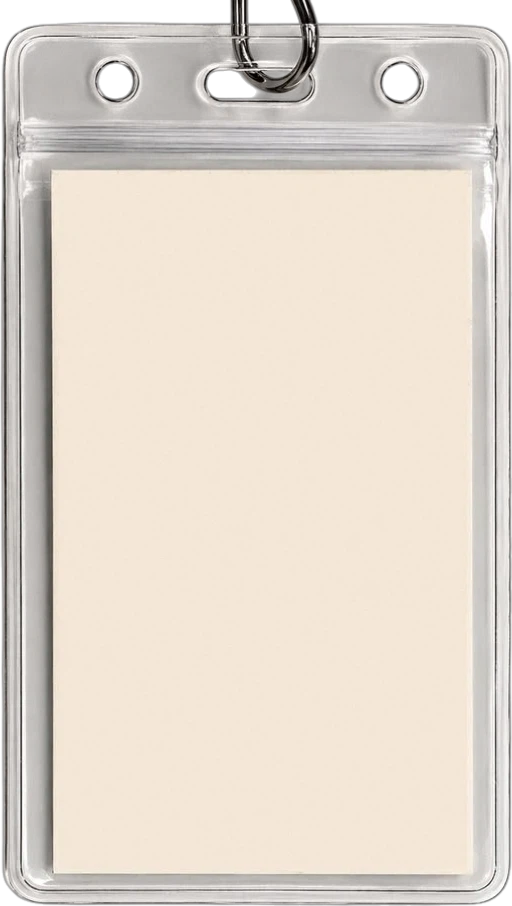
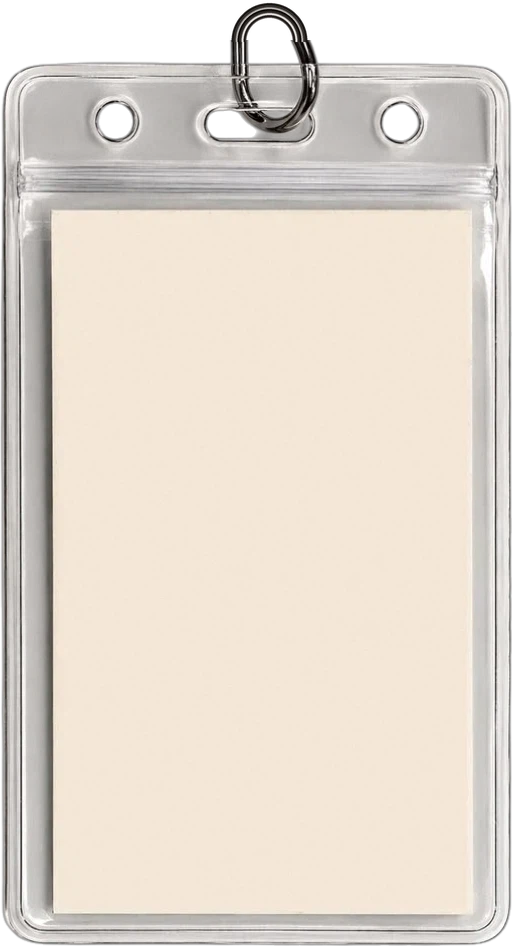
Board: simpler ID badge, closed clip ring, today's date

Changed region(s): [[0.0, 0.0, 1.0, 0.3091], [0.0312, 0.9581, 0.9062, 0.989], [0.9375, 0.9581, 1.0, 0.989]]

diff --git a/css/board.css b/css/board.css
@@ -114,51 +114,28 @@ a.item:focus-visible:not(.cutout):not(.framed) { box-shadow: var(--shadow-lifted
 /* ---------- ID badge in a clear sleeve ---------- */
 .badge { filter: drop-shadow(0 1px 1px rgba(40, 22, 8, .3)) drop-shadow(0 8px 9px rgba(40, 22, 8, .3)); }
 a.item.badge:hover { box-shadow: none; filter: drop-shadow(0 3px 3px rgba(40, 22, 8, .3)) drop-shadow(0 20px 20px rgba(40, 22, 8, .35)); }
-.badge { aspect-ratio: 512 / 906; }
+.badge { aspect-ratio: 512 / 946; }
 .badge__sleeve { position: absolute; inset: 0; width: 100%; height: 100%; }
-.badge__pin { top: -.2em; left: 53.5%; margin-left: -.675em; z-index: 3; }
+.badge__pin { top: .35em; left: 52.6%; margin-left: -.675em; z-index: 3; }
 .badge__card {
   position: absolute;
-  inset: 19.2% 8.8% 4.1% 11.5%;
+  inset: 22.6% 8.8% 3.9% 11.5%;
   display: flex;
   flex-direction: column;
   padding: .75em .9em .7em;
   color: #1b1b1b;
 }
-.badge__head {
-  display: flex;
-  justify-content: space-between;
-  align-items: baseline;
-  padding-bottom: .35em;
-  margin-bottom: .6em;
-  border-bottom: 1px solid rgba(0, 0, 0, .55);
-  font-family: var(--mono);
-  font-size: .7em;
-  letter-spacing: .08em;
-  text-transform: uppercase;
-}
-.badge__head span:first-child { font-family: var(--grotesk); font-weight: 900; font-size: 1.9em; letter-spacing: -.01em; }
 .badge__photo {
   display: block;
   overflow: hidden;
-  width: 82%;
+  width: 88%;
   align-self: center;
   aspect-ratio: 4 / 5;
-  margin-bottom: .7em;
+  margin: .5em 0 .9em;
   box-shadow: 0 0 0 1px rgba(0, 0, 0, .12);
 }
 /* same crop as the original polaroid: zoomed a little, bottom edge anchored */
 .badge__photo img { width: 100%; height: 100%; object-fit: cover; object-position: 50% 30%; transform: scale(1.35); transform-origin: 50% 100%; }
-.badge__stars {
-  position: absolute;
-  top: 3.4em;
-  left: .2em;
-  width: 2.6em;
-  fill: none;
-  stroke: #222;
-  stroke-width: 1.6;
-  stroke-linejoin: round;
-}
 .badge__field {
   display: flex;
   align-items: baseline;

diff --git a/index.html b/index.html
@@ -21,14 +21,12 @@
 
     <!-- about me -->
     <a class="item badge me" href="about/" style="--x: -7%; --y: 1.5%; --w: 23.75%; --r: -10deg; --s: 1.397;">
-      <img class="badge__sleeve" src="assets/img/badge-sleeve.webp" width="512" height="906" alt="" aria-hidden="true">
+      <img class="badge__sleeve" src="assets/img/badge-sleeve.webp" width="512" height="946" alt="" aria-hidden="true">
       <span class="pin badge__pin" aria-hidden="true"></span>
       <span class="badge__card">
-        <span class="badge__head" aria-hidden="true"><span>ID</span><span>File: 01</span></span>
         <span class="badge__photo"><img src="assets/img/me.jpg" alt="Symphony in a white dress and red Stanford graduation stole, smiling under a sandstone arch"></span>
-        <svg class="badge__stars" viewBox="0 0 60 40" aria-hidden="true"><path d="M12 4l3 9 9 0-7 6 3 9-8-6-8 6 3-9-7-6 9 0z"/><path d="M40 14l2.5 7 7.5 0-6 4.5 2.5 7-6.5-4.5-6.5 4.5 2.5-7-6-4.5 7.5 0z"/></svg>
         <span class="badge__field"><b>Name</b><i>Symphony Koss</i></span>
-        <span class="badge__foot" aria-hidden="true"><span class="badge__code"></span><span class="badge__date">05·10·26</span></span>
+        <span class="badge__foot" aria-hidden="true"><span class="badge__code"></span><span class="badge__date"></span></span>
       </span>
     </a>
 

diff --git a/js/board.js b/js/board.js
@@ -62,3 +62,12 @@
     document.querySelectorAll('.is-pressed').forEach((el) => el.classList.remove('is-pressed'));
   });
 })();
+
+// today's date on the ID badge (MM·DD·YY)
+(() => {
+  const el = document.querySelector('.badge__date');
+  if (!el) return;
+  const d = new Date();
+  const p = (n) => String(n).padStart(2, '0');
+  el.textContent = `${p(d.getMonth() + 1)}·${p(d.getDate())}·${p(d.getFullYear() % 100)}`;
+})();
